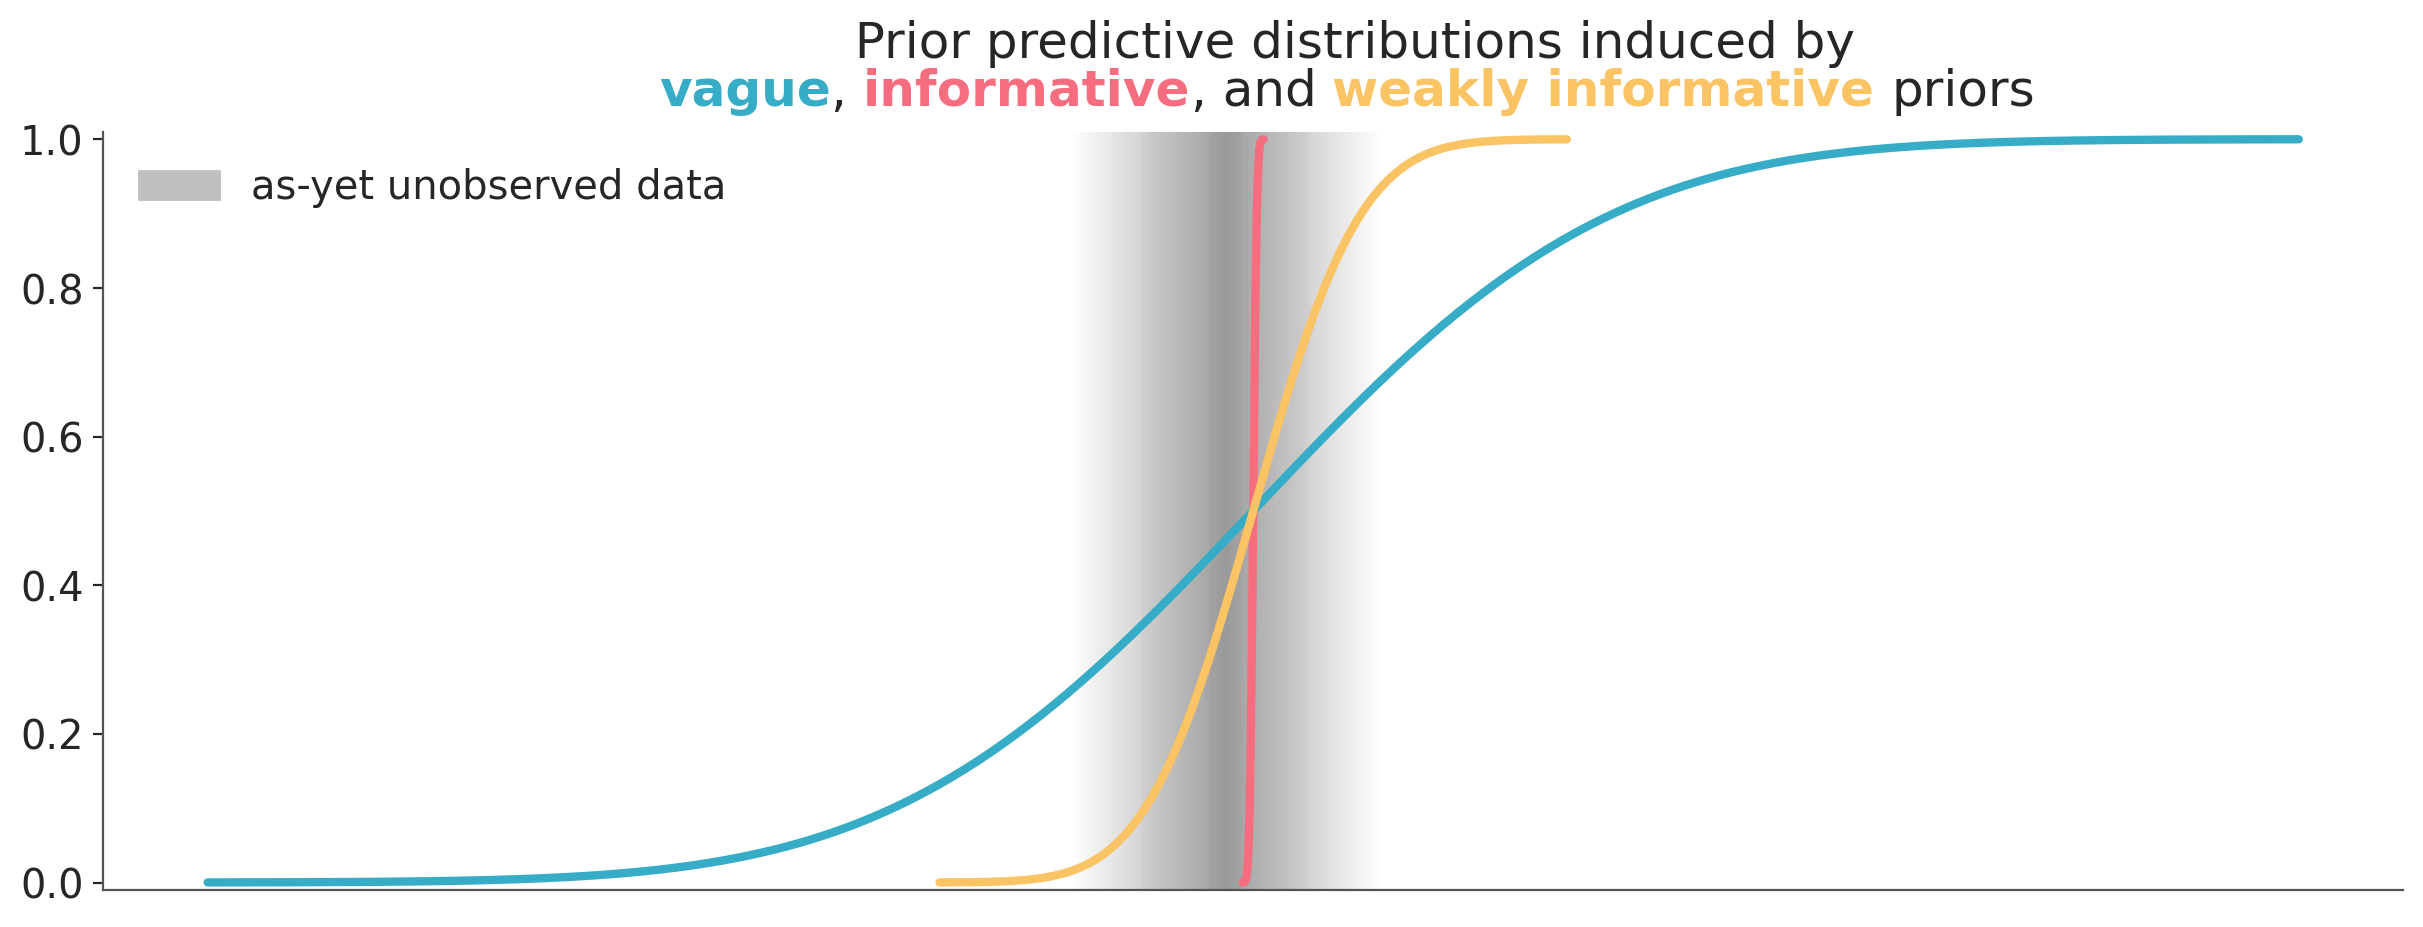
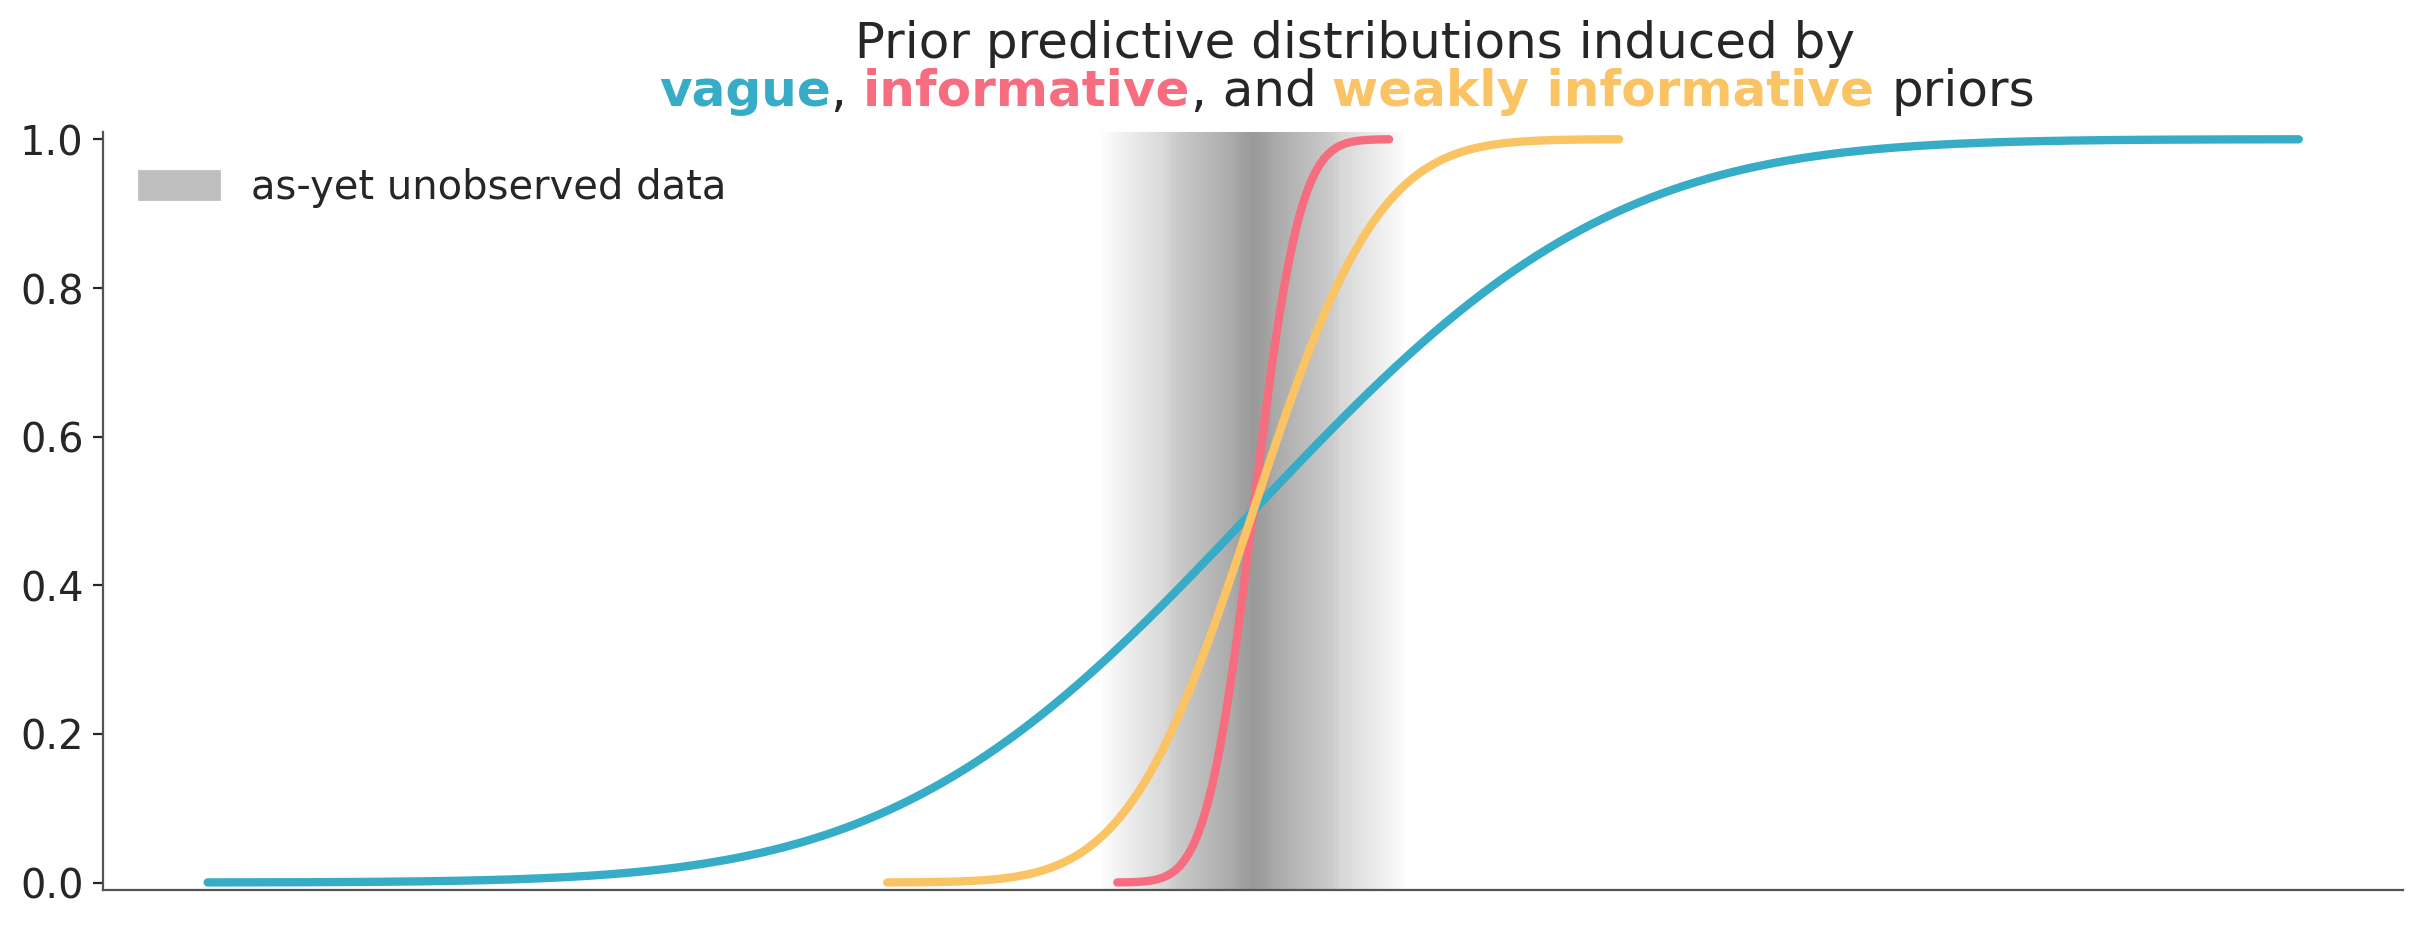
refine text and figures

Changed region(s): [[0.4953, 0.151, 0.6191, 0.5135], [0.3714, 0.5739, 0.5262, 0.9666], [0.65, 0.1208, 0.681, 0.151]]

diff --git a/scripts/prior_vagueness.py b/scripts/prior_vagueness.py
@@ -11,8 +11,8 @@ azp.style.use("arviz-clean")
 _, ax = plt.subplots(1, 1, figsize=(12, 4))
 
 pz.Normal(0, 10).plot_cdf(ax=ax, legend=None)
-pz.Normal(0, 0.1).plot_cdf(ax=ax, legend=None)
-pz.Normal(0, 3).plot_cdf(ax=ax, legend=None)
+pz.Normal(0, 1.3).plot_cdf(ax=ax, legend=None)
+pz.Normal(0, 3.5).plot_cdf(ax=ax, legend=None)
 
 
 for line in ax.get_lines():
@@ -21,7 +21,7 @@ for line in ax.get_lines():
 
 alpha = 0.001
 for i in np.linspace(-6, 0, 100):
-    ax.fill_between([-i-1, i-1], -0.3, 1.3, alpha=alpha, color="0.3")
+    ax.fill_between([-i, i], -0.3, 1.3, alpha=alpha, color="0.3")
     alpha += 0.0001
 
 ax.legend([mpatches.Patch(color="0.75")], 
